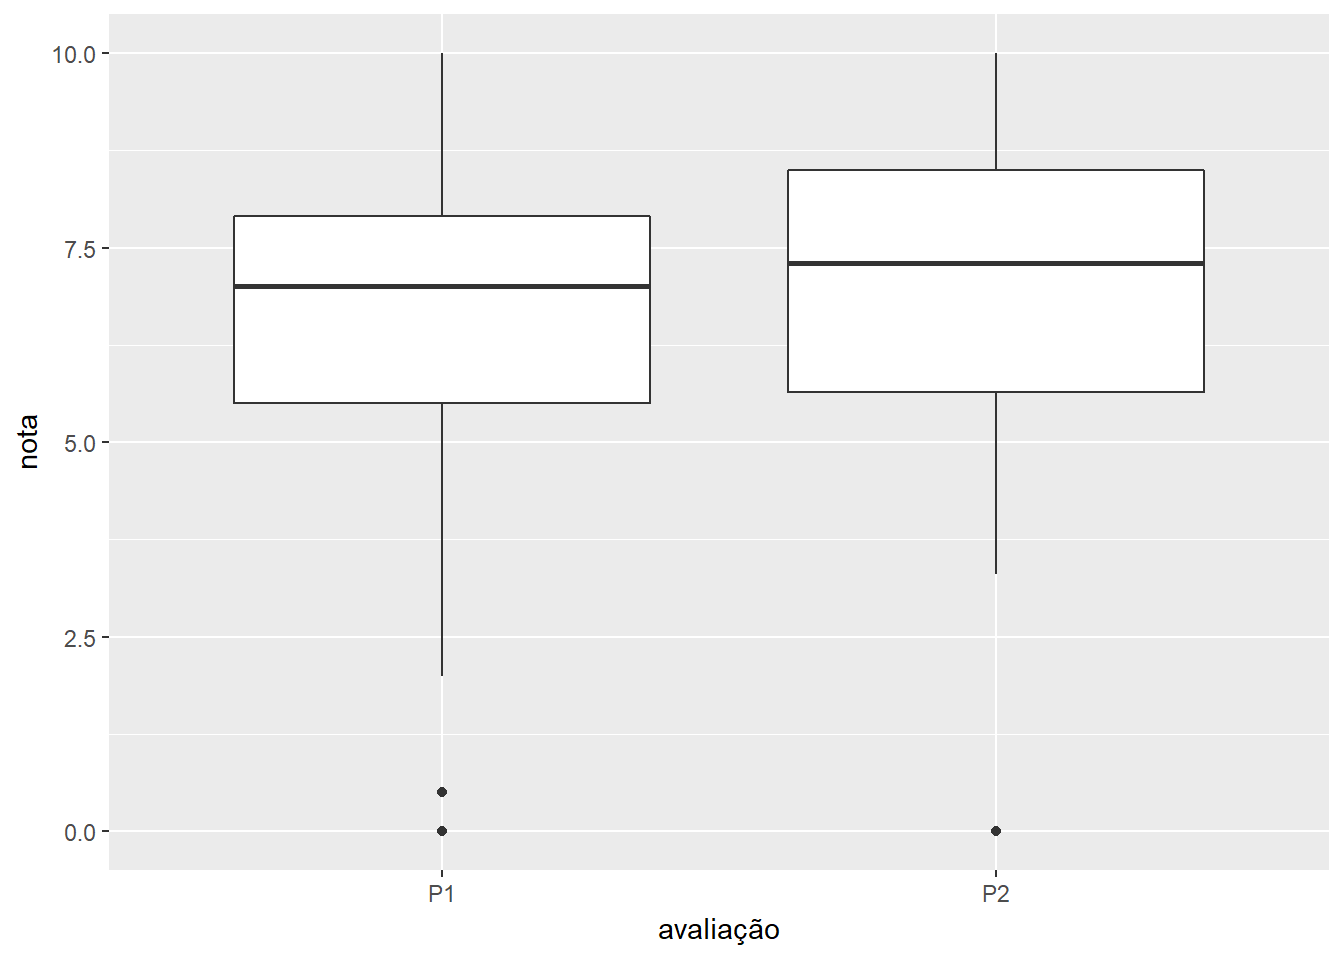
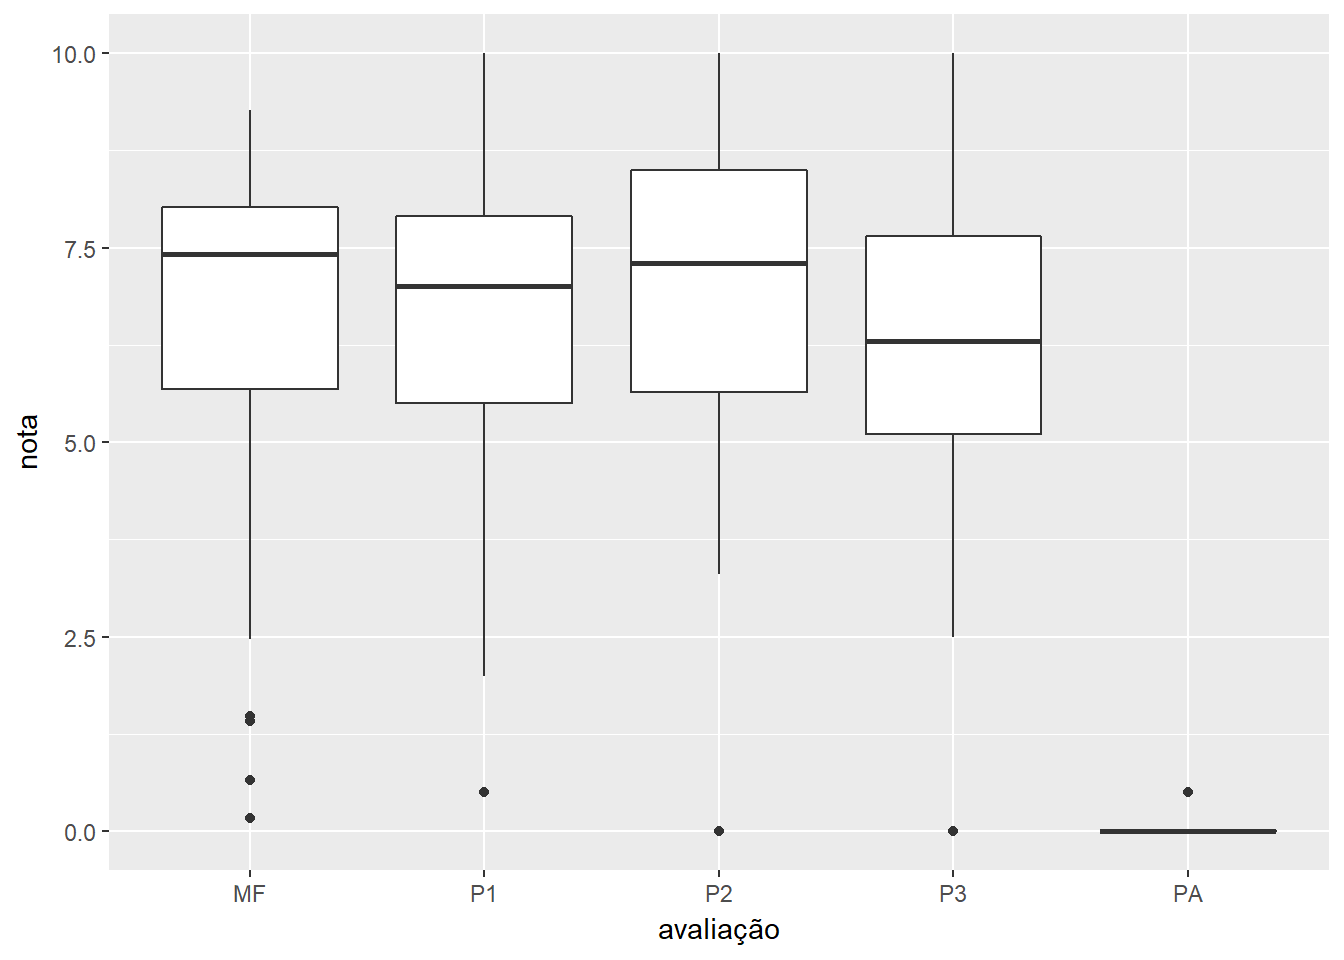
Calculo da media final e atualizacao antigas.

diff --git a/content/grades.html b/content/grades.html
@@ -18,10 +18,10 @@ subtitle: "1o semestre de 2018"
 <h1>Notas</h1>
 <ul>
 <li><p>Para manter sua anonimidade, as notas estão indexadas pelos 4 últimos algarismos do seu número RA.</p></li>
-<li><p>Caso o seu número RA esteja marcado com um (*), isto indica que existe evidência que você desrespeitou o código de ética desta disciplina. Tome cuidado! Caso o seu número RA esteja marcado com um (<strong>), está provado que você desrespeitou o código de ética desta disciplina e você está </strong>reprovado**.</p></li>
+<li><p>Caso o seu número RA esteja marcado com um (*), isto indica que existe evidência que você desrespeitou o código de ética desta disciplina. Tome cuidado! Caso o seu número RA esteja marcado com um (**), está provado que você desrespeitou o código de ética desta disciplina e você está reprovado.</p></li>
 </ul>
 <div id="htmlwidget-1" style="width:100%;height:auto;" class="datatables html-widget"></div>
-<script type="application/json" data-for="htmlwidget-1">{"x":{"filter":"none","data":[["0273","0702","1016","1027","1158","1509","2480","3502","3537","3545","3847","4338","4680","4687","5077","5493","5756","5770","5916","6429","6430","6431","6434","6436","6442","6448","6452","6453","6455","6456","6459","6461","6466","6468","6469","6470","6471","6474","6475","6476","6479","6481","6483","6485","6486","6491","6493","6715","6826","6979","7411","7420","7897","8650","9931"],[5.5,6.5,7.3,7.5,7,7,9.5,8,7.5,4.5,6.8,10,6.5,8,4.5,9,5,0.5,7,4.5,8.5,7.5,6.5,7.5,7.5,8.5,6.5,0,9.5,5.3,7.8,7,9.5,4.5,7.5,2,4.3,9,6.8,4.8,4.3,7.8,9.5,8,6.5,8,5.5,6.8,7.8,6.8,6.5,5.5,4.5,7.7,10],[4.5,5.8,8.5,8.5,6.8,6.3,10,6.8,0,5,8.3,9.2,7.8,8.3,5.8,6.8,6,0,8.5,10,10,6,5.5,8.8,8.8,7.8,6,6,7.3,5.8,9,7.3,9.5,0,9.5,0,0,8.3,5,5,5.8,9.3,8,8.5,7.5,7.5,10,5.5,3.3,7.8,7.3,3.5,0,6,8.5]],"container":"<table class=\"display\">\n  <thead>\n    <tr>\n      <th>RA<\/th>\n      <th>P1<\/th>\n      <th>P2<\/th>\n    <\/tr>\n  <\/thead>\n<\/table>","options":{"dom":"ftip","columnDefs":[{"className":"dt-right","targets":[1,2]}],"order":[],"autoWidth":false,"orderClasses":false}},"evals":[],"jsHooks":[]}</script>
+<script type="application/json" data-for="htmlwidget-1">{"x":{"filter":"none","data":[["0273","0702","1016","1027","1158","1509","2480","3502","3537","3545","3847","4338","4680","4687","5077","5493","5756","5770","5916","6429","6430","6431","6434","6436","6442","6448","6452","6453","6455","6456","6459","6461","6466","6468","6469","6470","6471","6474","6475","6476","6479","6481","6483","6485","6486","6491","6493","6715","6826","6979","7411","7420","7897","8650","9931"],[5.5,6.5,7.3,7.5,7,7,9.5,8,7.5,4.5,6.8,10,6.5,8,4.5,9,5,0.5,7,4.5,8.5,7.5,6.5,7.5,7.5,8.5,6.5,5.2,9.5,5.3,7.8,7,9.5,4.5,7.5,2,4.3,9,6.8,4.8,4.3,7.8,9.5,8,6.5,8,5.5,6.8,7.8,6.8,6.5,5.5,4.5,7.7,10],[4.5,5.8,8.5,8.5,6.8,6.3,10,6.8,0,5,8.3,9.2,7.8,8.3,5.8,6.8,6,0,8.5,10,10,6,5.5,8.8,8.8,7.8,6,6,7.3,5.8,9,7.3,9.5,0,9.5,0,0,8.3,5,5,5.8,9.3,8,8.5,7.5,7.5,10,5.5,3.3,7.8,7.3,3.5,0,6,8.5],[5.5,6,7.8,9.3,4.8,5.3,6.8,9,0,4,8.3,5.3,7,7,5.2,7.5,6.3,0,4,7.8,6.3,10,6.8,7.5,7.3,6,8,4.3,7.8,6,5.8,7.3,8.8,0,7.8,0,0,7.5,5.8,5,7.5,10,6.3,8.3,5,8.3,8.8,5.3,3.3,2.5,7.5,5.3,0,6.5,7.3],[0,0,0.5,0.5,0.5,0,0,0,0,0,0,0,0.5,0,0,0,0,0,0,0.5,0,0,0,0,0,0,0.5,0,0.5,0,0,0.5,0,0,0.5,0,0,0,0,0,0,0,0.5,0,0,0,0,0,0,0,0.5,0,0,0,0.5],[5.17,6.099,8.366,8.942,6.686,6.191,8.747,7.944,2.475,4.495,7.805,8.138,7.599,7.759,5.167,7.764,5.772,0.165,6.475,7.937,8.247,7.855,6.272,7.929,7.861,7.419,7.345,5.158,8.696,5.703,7.516,7.701,9.262,1.485,8.762,0.66,1.419,8.259,5.866,4.934,5.883,9.043,8.417,8.267,6.32,7.937,8.107,5.861,4.785,5.668,7.604,4.772,1.485,6.731,9.087]],"container":"<table class=\"display\">\n  <thead>\n    <tr>\n      <th>RA<\/th>\n      <th>P1<\/th>\n      <th>P2<\/th>\n      <th>P3<\/th>\n      <th>PA<\/th>\n      <th>MF<\/th>\n    <\/tr>\n  <\/thead>\n<\/table>","options":{"dom":"ftip","columnDefs":[{"className":"dt-right","targets":[1,2,3,4,5]}],"order":[],"autoWidth":false,"orderClasses":false}},"evals":[],"jsHooks":[]}</script>
 <div id="graficos" class="section level3">
 <h3>Gráficos</h3>
 <p><img src="/grades_files/figure-html/unnamed-chunk-2-1.png" width="672" /></p>

diff --git a/content/post/aula_x.html b/content/post/aula_x.html
@@ -1,0 +1,62 @@
+---
+title: "Aulas X - One-way ANOVA"
+author: "Rafael Bassi Stern"
+date: 2018-06-04
+bibliography: ipaee.bib
+output: html_document
+---
+
+
+
+<pre class="r"><code>library(tidyverse)
+milho = read.csv(&quot;./data/milho.csv&quot;)
+milho = as.tibble(milho)
+
+teste_aov = aov(Colheita ~ Variedade, data = milho)
+teste_aov</code></pre>
+<pre><code>## Call:
+##    aov(formula = Colheita ~ Variedade, data = milho)
+## 
+## Terms:
+##                 Variedade Residuals
+## Sum of Squares     56.375    34.500
+## Deg. of Freedom         3         4
+## 
+## Residual standard error: 2.936835
+## Estimated effects may be unbalanced</code></pre>
+<pre class="r"><code>teste_tukey = TukeyHSD(x = teste_aov,
+                       c(&quot;Variedade&quot;),
+                       conf.level=0.9)
+teste_tukey</code></pre>
+<pre><code>##   Tukey multiple comparisons of means
+##     90% family-wise confidence level
+## 
+## Fit: aov(formula = Colheita ~ Variedade, data = milho)
+## 
+## $Variedade
+##     diff        lwr       upr     p adj
+## B-A  2.5  -7.024103 12.024103 0.8291950
+## C-A -1.5 -11.024103  8.024103 0.9522488
+## D-A  5.5  -4.024103 15.024103 0.3636471
+## C-B -4.0 -13.524103  5.524103 0.5778444
+## D-B  3.0  -6.524103 12.524103 0.7479312
+## D-C  7.0  -2.524103 16.524103 0.2222893</code></pre>
+<pre class="r"><code>agua = read.csv(&quot;./data/agua.csv&quot;)
+agua = as.tibble(agua)
+
+teste_aov = aov(Tempo ~ Tipo, data = agua)
+teste_aov</code></pre>
+<pre><code>## Call:
+##    aov(formula = Tempo ~ Tipo, data = agua)
+## 
+## Terms:
+##                     Tipo Residuals
+## Sum of Squares  102.0833  236.1667
+## Deg. of Freedom        1        10
+## 
+## Residual standard error: 4.859698
+## Estimated effects may be unbalanced</code></pre>
+<pre class="r"><code>#teste_tukey = TukeyHSD(x = teste_aov,
+#                       c(&quot;Variedade&quot;),
+#                       conf.level=0.9)
+#teste_tukey</code></pre>
